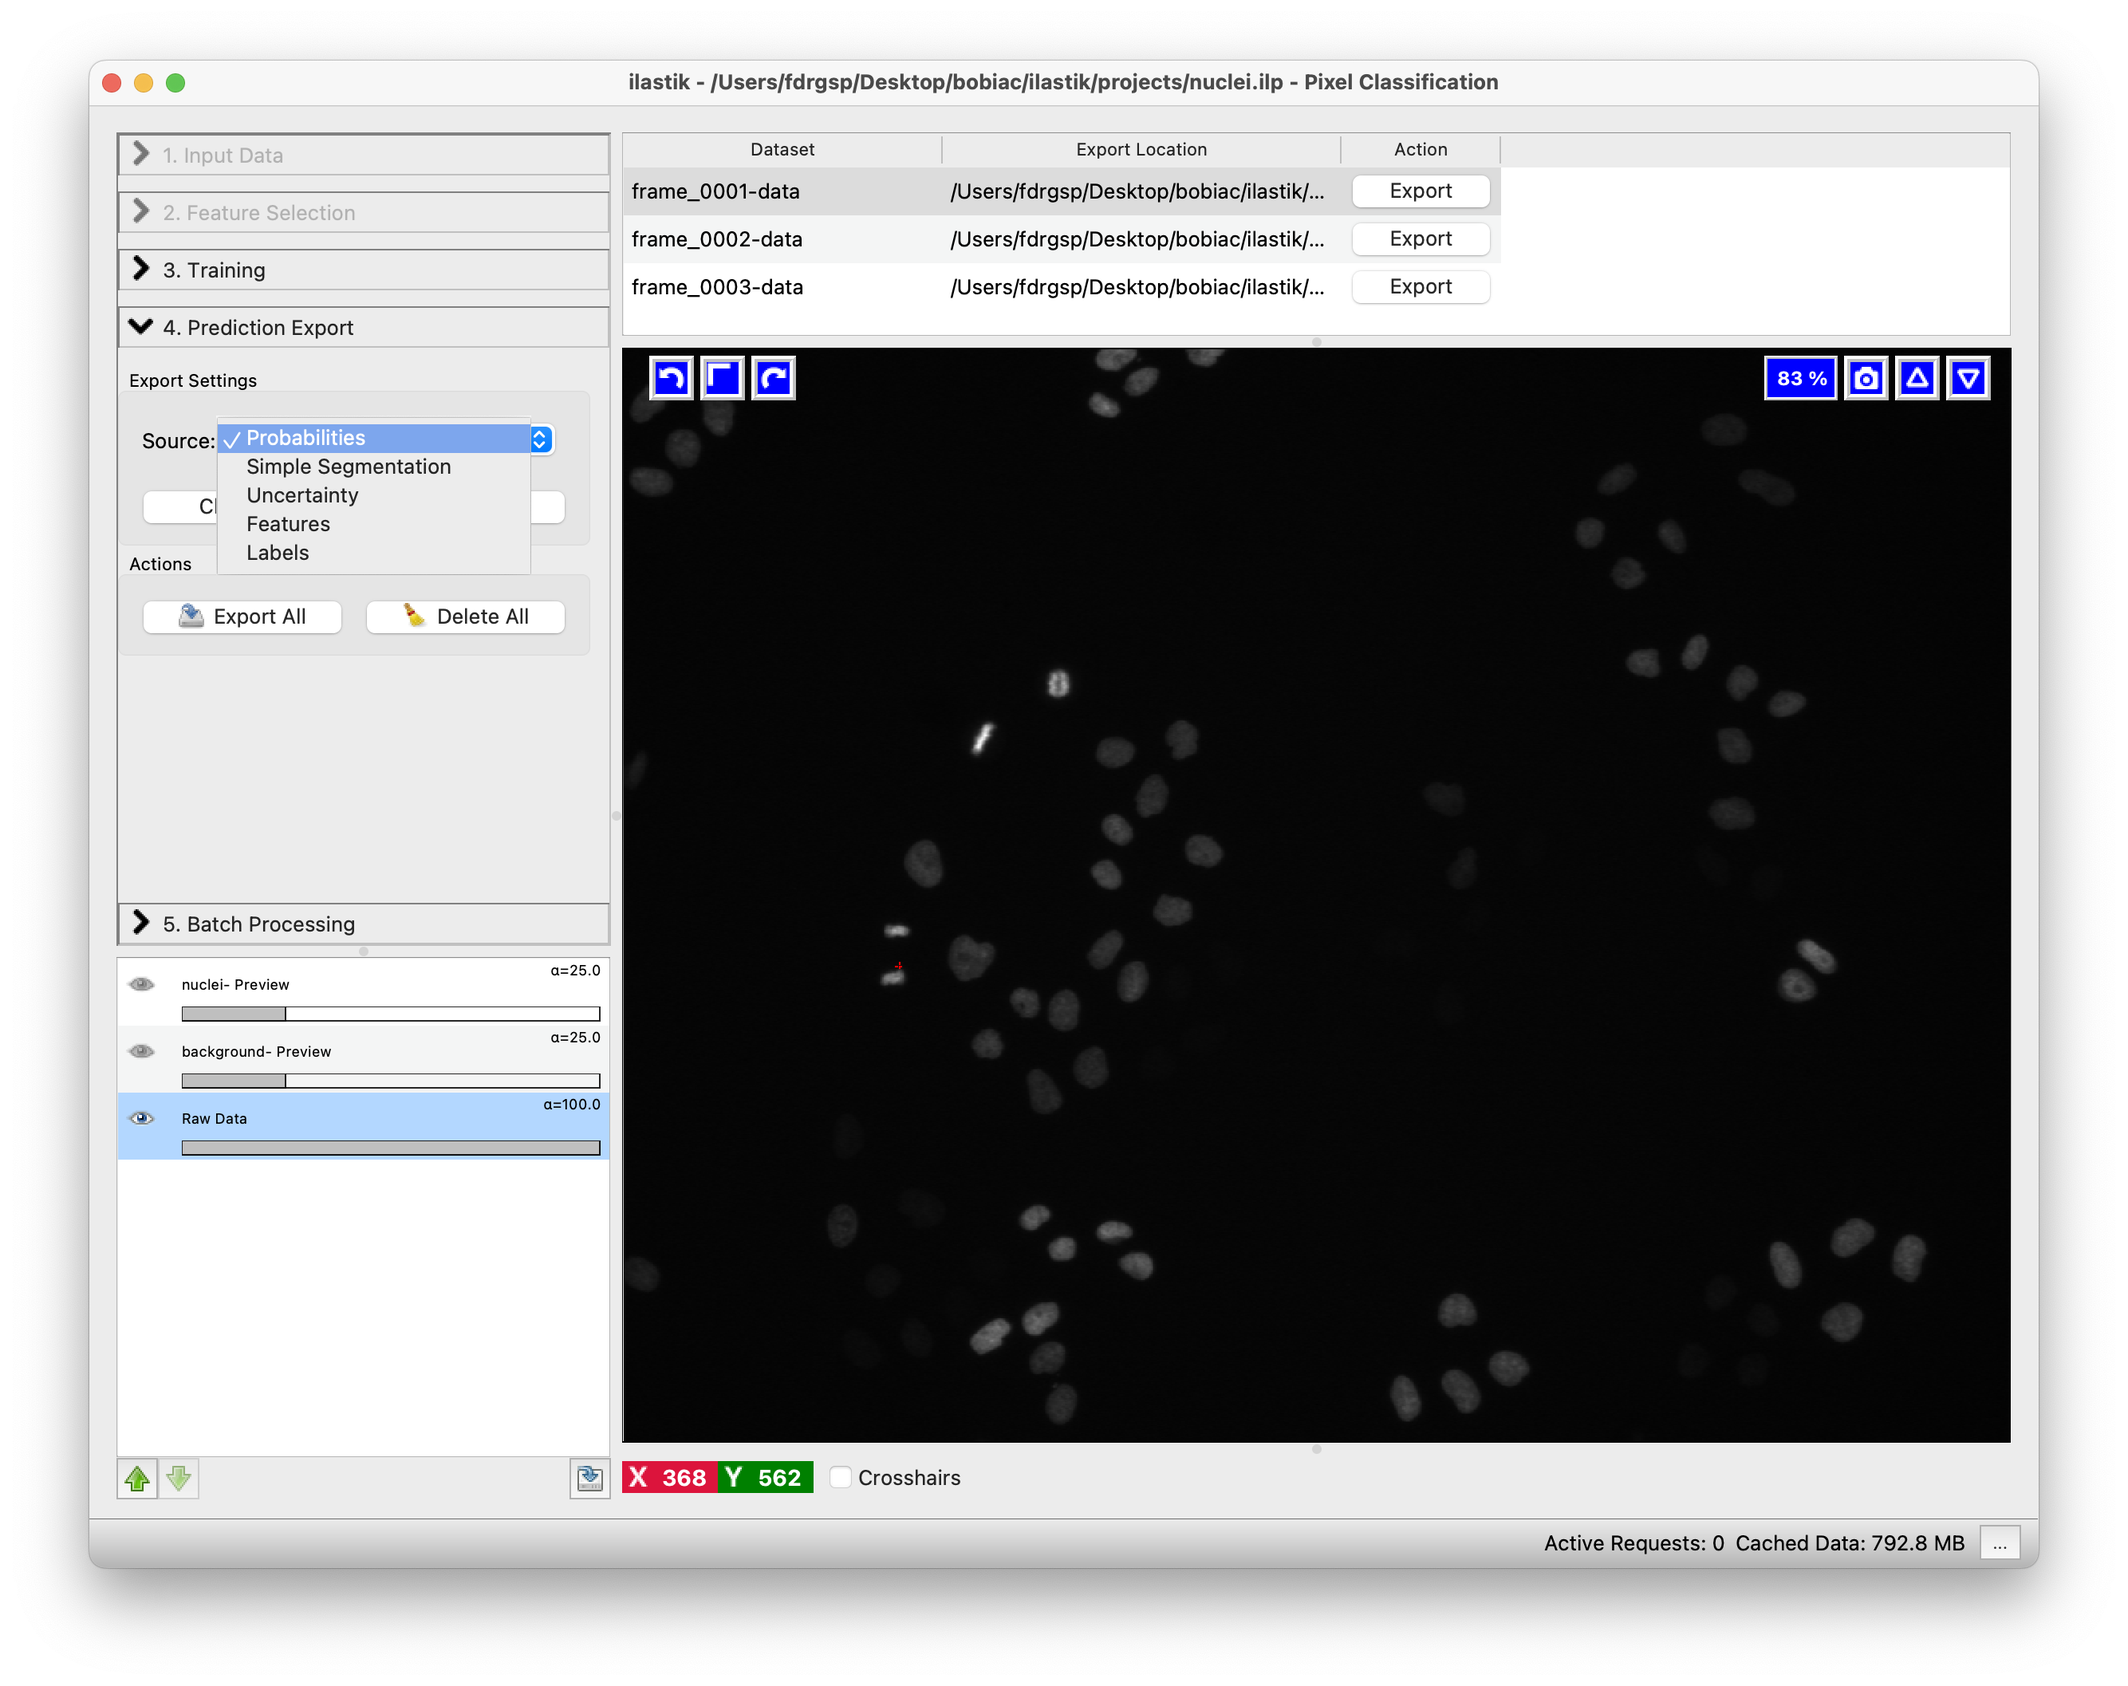
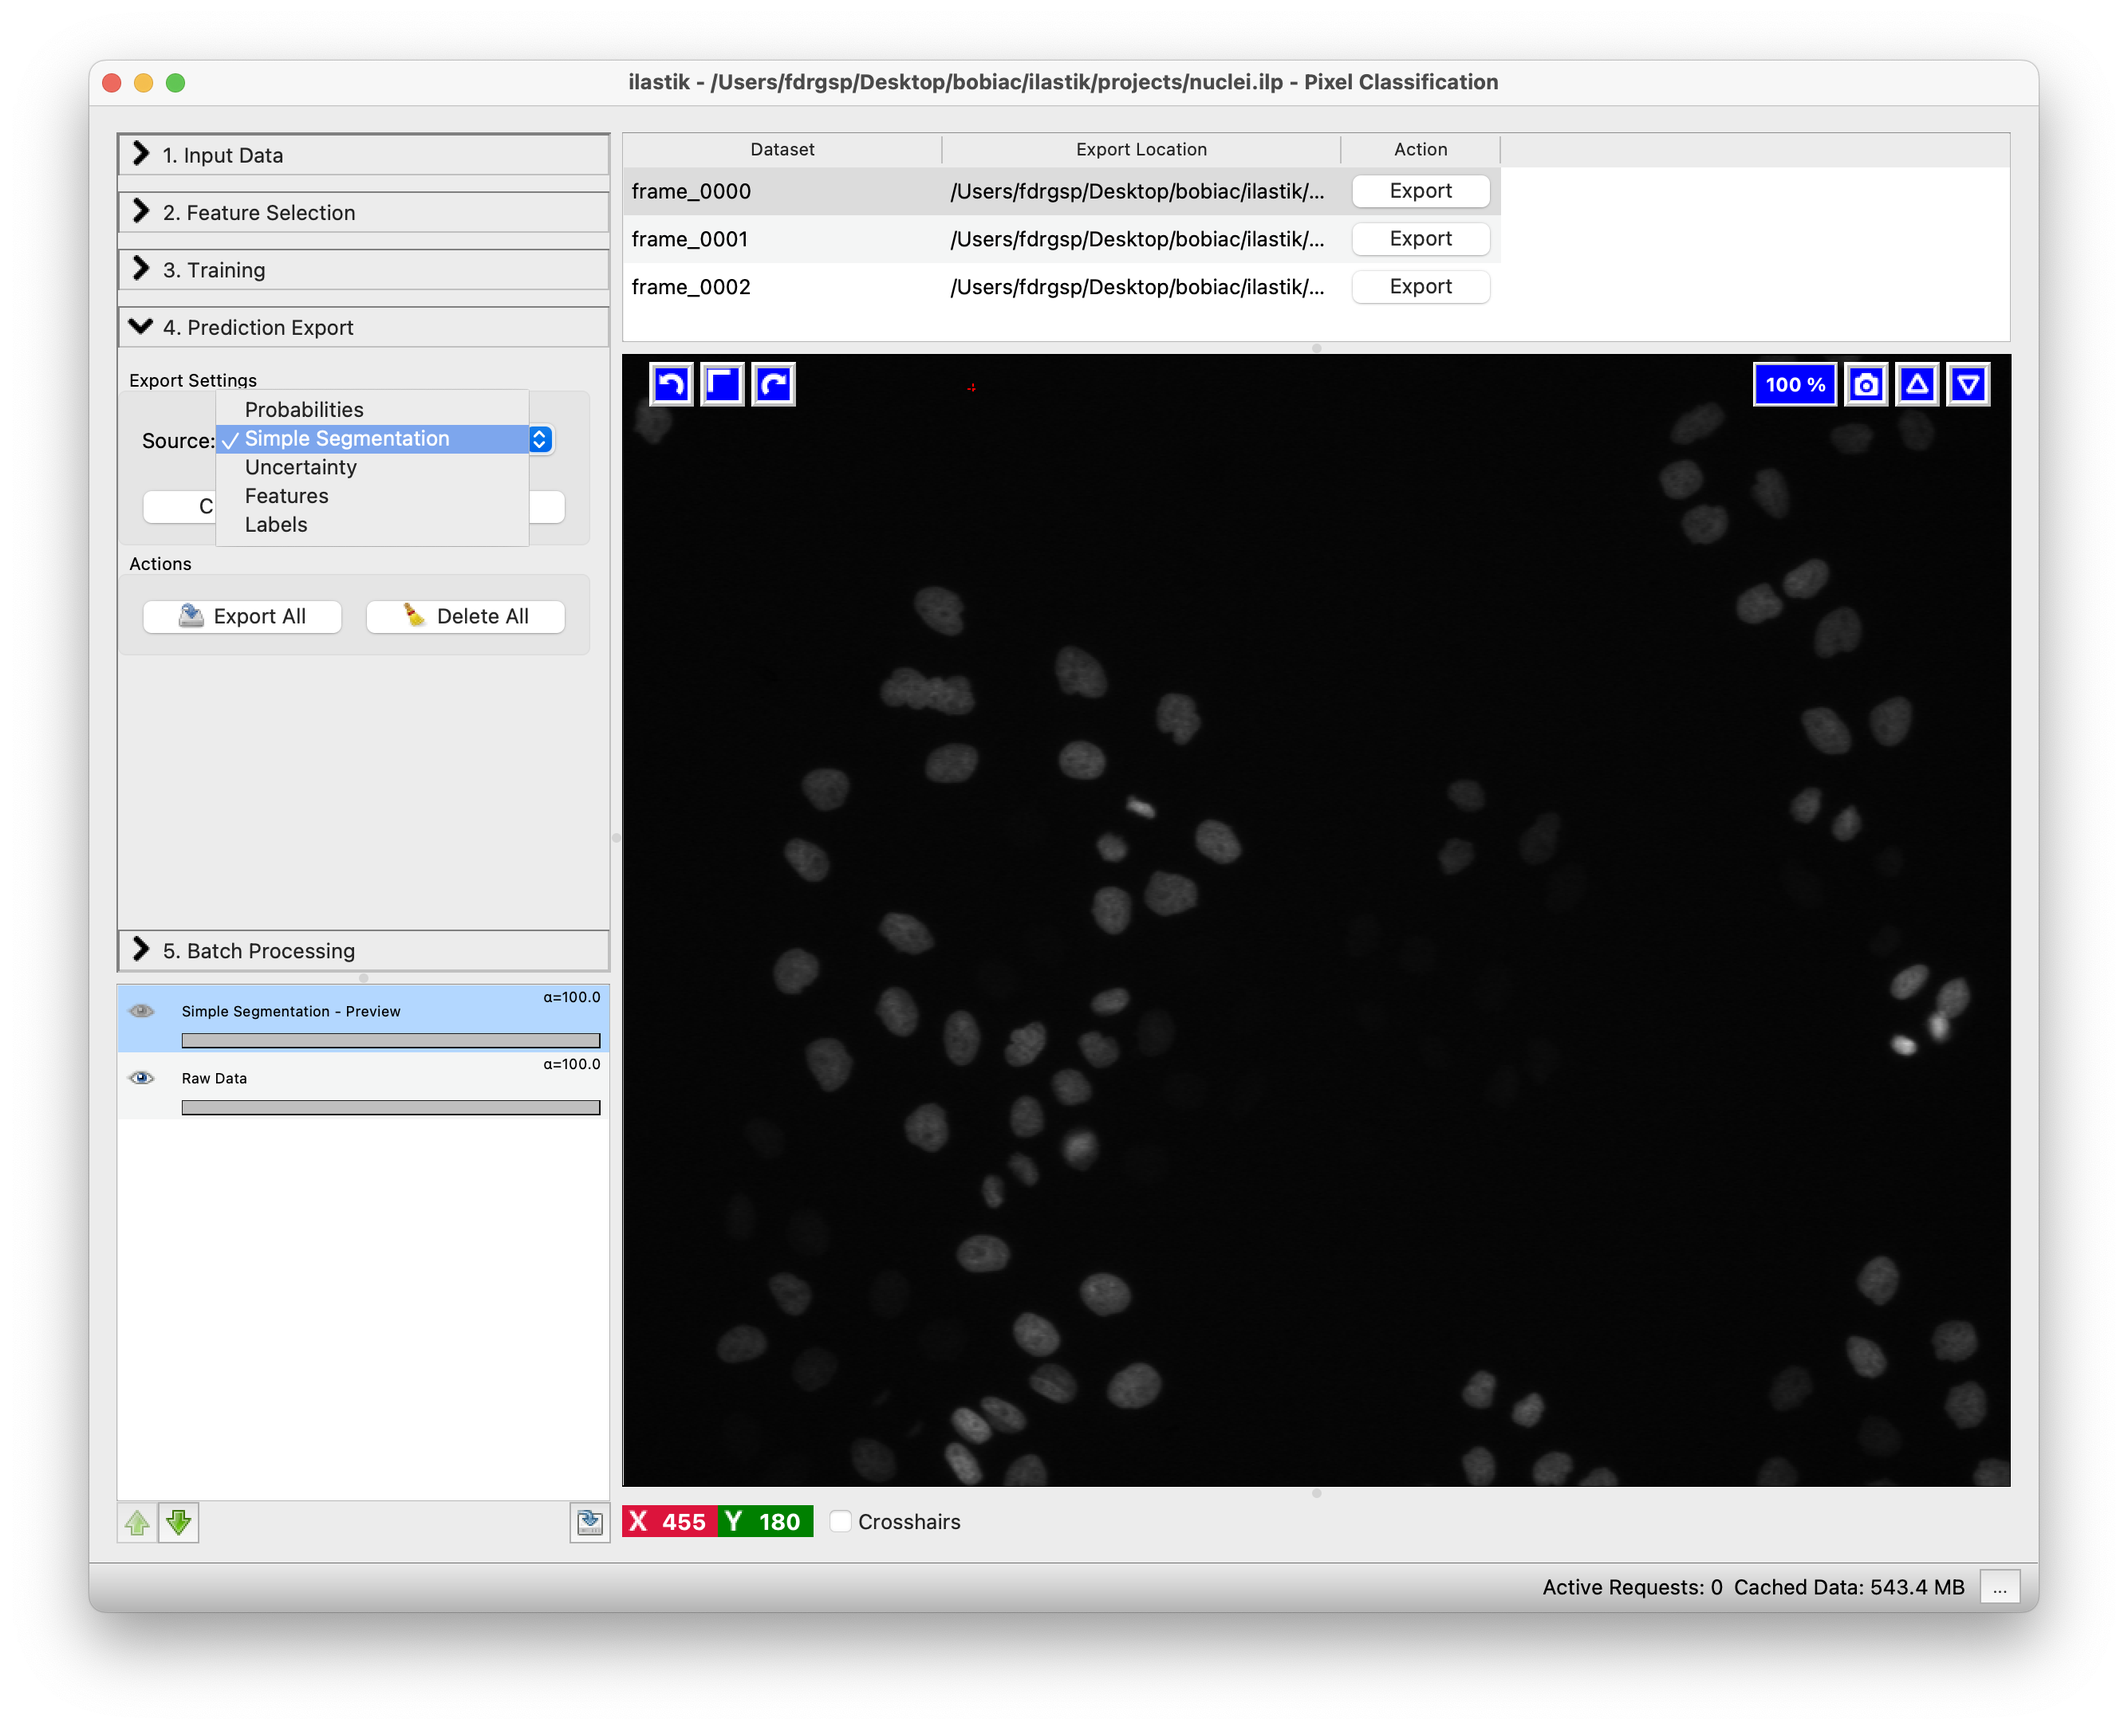
add ilastik to labels notebook

diff --git a/content/05_segmentation/machine_learning/pixel_classification_with_ilastik.md b/content/05_segmentation/machine_learning/pixel_classification_with_ilastik.md
@@ -5,7 +5,7 @@ In this section, we will explore how to use **Ilastik** for **semantic segmentat
 In this exercise, we will use the <a href="../../../_static/data/05_segmentation_ilastik.zip" download> <i class="fas fa-download"></i> pixel classification dataset</a> of nuclei images, and the goal is to train a classifier to distinguish between **nuclei** and **background**.
 
 <div class="alert alert-info">
-    <strong>NOTE:</strong> Ilastik supports a variety of <a href="https://www.ilastik.org/documentation/basics/dataselection#formats" target="_blank">data formats</a>. For simplicity and ease of use during this course, we will use images saved as <strong>.tif</strong> files. However, Ilastik recommends using files saved as <strong>.h5</strong> for optimal performance. If you wish to use your own dataset and need to convert your files to <strong>.h5</strong>, Ilastik provides tools such as a <a href="https://www.ilastik.org/documentation/fiji_export/plugin" target="_blank">Fiji plugin</a> or a <a href="https://github.com/ilastik/ilastik/tree/main/notebooks/h5convert" target="_blank">Jupyter Notebook</a> with instructions.
+    <strong>NOTE:</strong> Ilastik supports a variety of <a href="https://www.ilastik.org/documentation/basics/dataselection#formats" target="_blank">data formats</a>. For simplicity and ease of use during this course, we will use images saved as <strong>.tif</strong> files. However, Ilastik recommends using files saved as <strong>.h5</strong> for [optimal performance](https://www.ilastik.org/documentation/basics/performance_tips). If you wish to use your own dataset and need to convert your files to <strong>.h5</strong>, Ilastik provides tools such as a <a href="https://www.ilastik.org/documentation/fiji_export/plugin" target="_blank">Fiji plugin</a> or a <a href="https://github.com/ilastik/ilastik/tree/main/notebooks/h5convert" target="_blank">Jupyter Notebook</a> with instructions.
 </div>
 
 ## What is Pixel Classification?
@@ -106,19 +106,17 @@ Once you are satisfied with the results, you now need to check if the classifier
 
 ### 5. Export the Results
 
-Once the trained model works well with all the training images, you can either [**export the results**](https://www.ilastik.org/documentation/basics/export) (e.g. probability maps, semantic segmentation) for the training images or run the classifier in [**batch mode**](https://www.ilastik.org/documentation/basics/batch) to process many images at once.
+Once the trained model works well with all the training images, you can either [**export the results**](https://www.ilastik.org/documentation/basics/export) (e.g. probability maps, semantic segmentation, ...) for the training images or run the classifier in [**batch mode**](https://www.ilastik.org/documentation/basics/batch) to process many images at once.
 
-Either way, the first step is to select what you want to export by choosing an option in the ***Source*** drop-down menu in the ***Prediction Export*** step (on the left side of the GUI). Let's for now select with ***Probabilities*** (probability maps).
+Either way, the first step is to select what you want to export by choosing an option in the ***Source*** drop-down menu in the ***Prediction Export*** step (on the left side of the GUI). Since in the next sections of the course we will use the **semantic segmentation** results, select ***Simple Segmentation***. This option will export the semantic segmentation of the nuclei in the images, where each pixel is classified as either **nuclei** or **background**.
 
 <div align="center"> <img class="custom-image" src="../../../_static/images/ilastik/5a.png" alt="Ilastik Logo" width="800"> </div>
 
-The second step is to select how we want to export the results. By clicking on the ***Choose Export Image Settings...*** button, a new window will open where you can select different options including the export format and the output folder where to save the result. Select "tif" as format and leave as default the output file path since it automatically is set to save the results in the same folder as the input images with the suffix appropriately changing depending on the option you select in the ***Source*** drop-down menu (e.g. *_Probabilities*).
+The second step is to select how we want to export the results. By clicking on the ***Choose Export Image Settings...*** button, a new window will open where you can select different options including the export format and the output folder where to save the result. Select "tif" as format and leave as default the output file path since it automatically is set to save the results in the same folder as the input images with the suffix appropriately changing depending on the option you select in the ***Source*** drop-down menu (e.g. *_Simple Segmentation*). Leave the other options untouched since we do not need to change them for this exercise.
 
 <div align="center"> <img class="custom-image" src="../../../_static/images/ilastik/5b.png" alt="Ilastik Logo" width="800"> </div>
 
-You can click ***Ok*** to close the window and then click on the ***Export All*** button to start exporting the predictions for all the training images. If you look in the folder where your training images are stored, you will find the exported results with the suffix *_Probabilities*.
-
-To continue the exercise we also need to export the **semantic segmentation** results. Therefore, go back to the ***Source*** drop-down menu and select ***Simple Segmentation*** (semantic). Then click on ***Export All*** again to export the semantic segmentation results for all the training images. The exported files will have the suffix *_Simple Segmentation*.
+You can click ***Ok*** to close the window and then click on the ***Export All*** button to start exporting the predictions for all the training images. If you look in the folder where your training images are stored, you will find the exported results with the suffix *_Simple Segmentation*.
 
 ### 6. Batch Processing
 
@@ -127,10 +125,10 @@ Since we will need to analyze more images for future sections of the course, we 
 <div align="center"> <img class="custom-image" src="../../../_static/images/ilastik/6b.png" alt="Ilastik Logo" width="800"> </div>
 
 By clicking on the ***Process all files*** button, the classifier will be run on all the images in the dataset.
-Depending on the option you select in the previous ***Prediction Export***, the results will be saved in the same folder as the input images with the suffix *_Probabilities* or *_Simple Segmentation*. **Make sure you run the classifier for both options to have all the results available for the next sections of the course**.
+Depending on the option you select in the previous ***Prediction Export***, the results will be saved in the same folder as the input images with the corresponding suffix, in our case *_Simple Segmentation*.
 
 ### 7. What's Next?
 
-From this **Ilastik** pipeline we managed to extract both the **probability maps** and the **semantic segmentation** of the nuclei in the images. In the next sections of the course, we will first use the **semantic segmentation** and [convert it into **instance segmentation**](./from_ilastik_masks_to_labels.ipynb) (as in the [classic segmentastion methods](../classic/classic.md) section). And then we will use the **probability maps** to train an **Ilastik** [**Object Classification** workflow](../../06_classification/object_classification_with_ilastik.md) to classify the nuclei into different classes based on their cell cycle stage.
+From this **Ilastik** pipeline we managed to extract the **semantic segmentation** of the nuclei in all the images. In the next sections of the course, we will first use the **semantic segmentation** and [convert it into **instance segmentation**](./from_ilastik_masks_to_labels.ipynb) (as in the [classic segmentastion methods](../classic/classic.md) section). And then we will use these labelled images to classify the nuclei into different classes based on their cell cycle stage using the **Ilastik** [**Object Classification** workflow](../../06_classification/object_classification_with_ilastik.md) .
 
 ***TODO: UPDATE LINK TO CLASSIC SEGMENTATION METHODS SECTION and OBJECT CLASSIFICATION SECTION ONCE THEY ARE READY***

diff --git a/content/05_segmentation/machine_learning/machine_learning_with_ilastik.md b/content/05_segmentation/machine_learning/machine_learning_with_ilastik.md
@@ -3,7 +3,7 @@
 [**Ilastik**](https://www.ilastik.org) is a **free**, **open-source** software tool designed for **interactive image analysis**, including tasks such as **segmentation** and **classification** on multi-dimensional datasets (e.g. 2D, 3D), without requiring prior expertise in machine learning or programming.
 
 <div align="center">
-    <img class="custom-image" src="../../../_static/images/ilastik_startup.png" alt="Ilastik Logo" width="700">
+    <img class="custom-image" src="../../../_static/images/ilastik/ilastik_startup.png" alt="Ilastik Logo" width="700">
 </div>
 
 At its core, **Ilastik** employs supervised machine learning techniques. **Users annotate images by labeling regions of interest**, and the software **trains a classifier** (typically a [Random Forest algorithm](https://en.wikipedia.org/wiki/Random_forest)) **to recognize patterns and distinguish between different classes within the images**.
